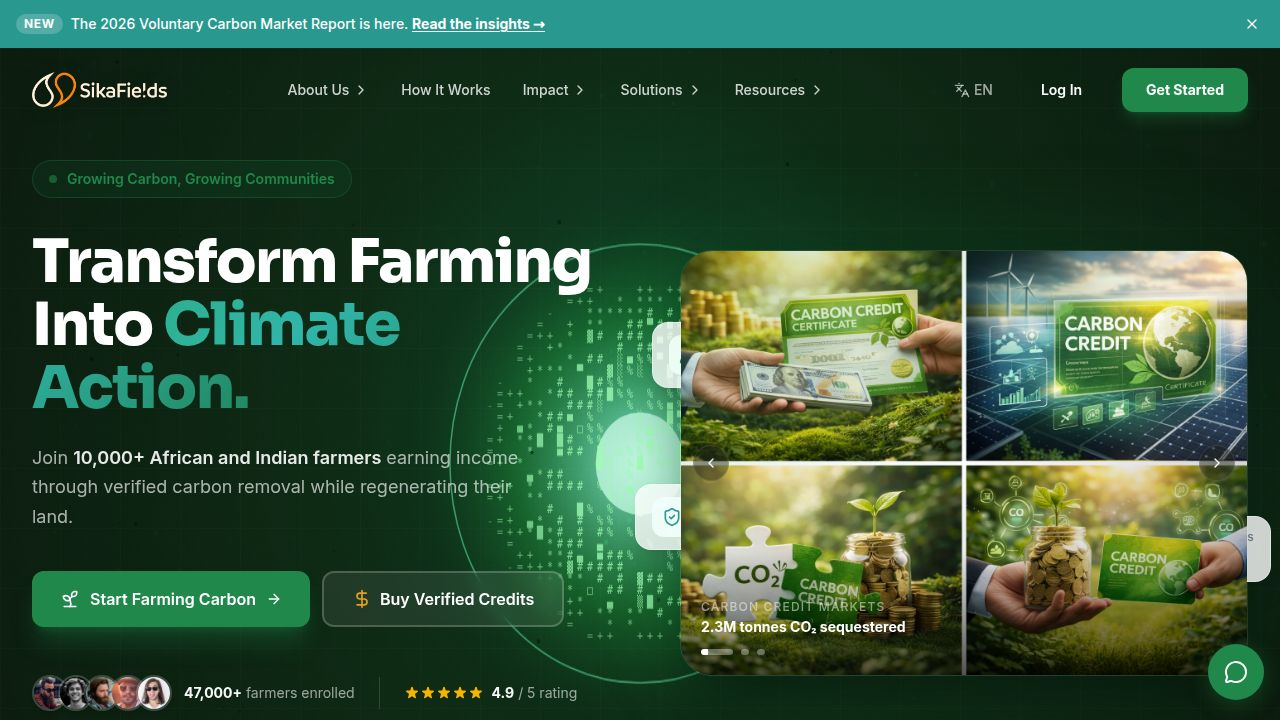
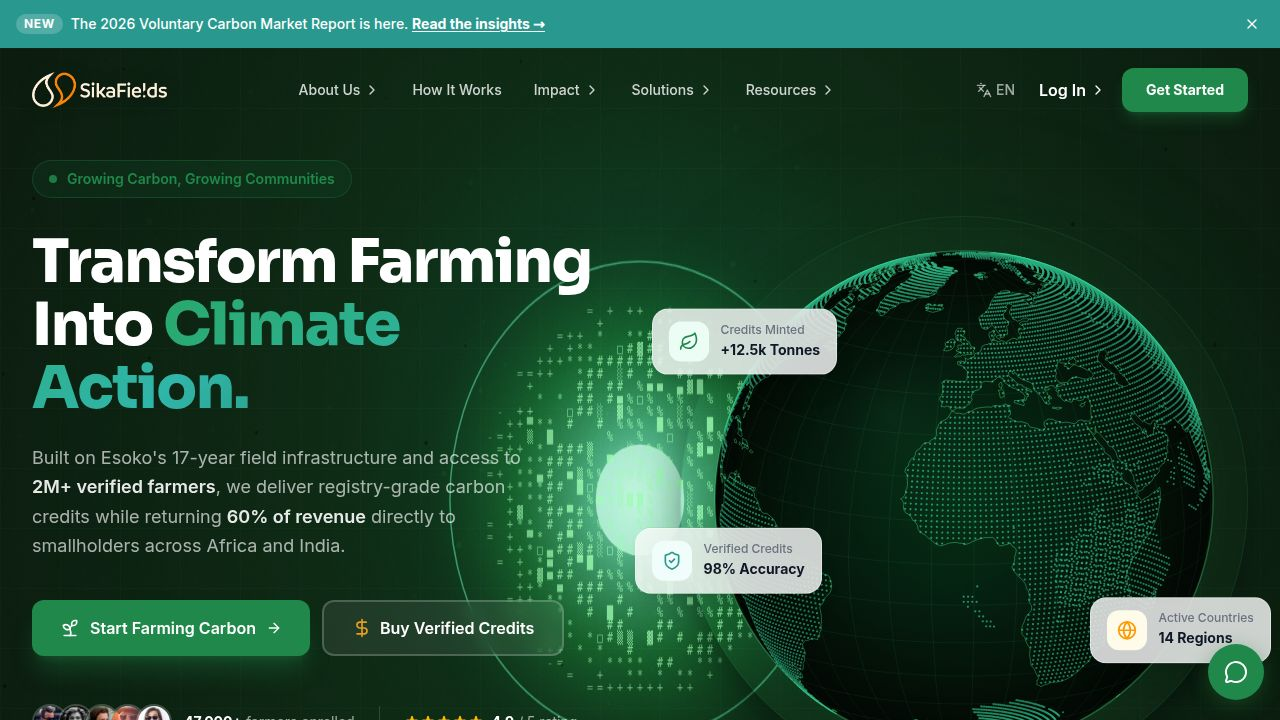
Task #9: Hope photo + Advisory Board landing section
## Hope Jr. Mbakadi Photo
- Copied attached_assets/image_1775166723367.png → public/hope-jr-mbakadi.png
- Updated bgImage: "/hope-jr-mbakadi.png" (was "/hope-mbakadi.jpg")
- bgSize: "cover", bgPos: "center 12%" — frames his face (man in blue blazer) correctly in the 320px-tall LeaderFlipCard

## Advisory Board Section
- Added inline Advisory Board grid in LeadershipSection(), inserted after the leadership flip-card grid (mb-20) and before the "Ground Reports — Operations by Territory" divider
- 5 external advisors (Valentijn Venus excluded — he is already shown as CPRO in the leadership grid):
  1. Derrick Adu Gyamfi — Capital Markets & Finance
  2. Dr. Cheryl Sterling — Doctorate Policy Research / ESG
  3. Festus William Amoyaw — Agribusiness & Rural Partnerships
  4. Nana Ama Boateng-Kagyah — Legal & Compliance
  5. Olubgenga Olanrewaju Awe — Structured Trade Finance / The Alternative Bank
- Photos sourced from existing advisory-board.png sprite sheet using same bgPos/bgSize values as Advisory.tsx
- Card design: white bg, rounded-2xl, color accent bar at top (1.5px), 64px avatar, name + credential + credentialSub, domain tags (colored pills), focus area text, LinkedIn icon (for those with links)
- Section header: "Advisory Board" pill (same style as Ground Reports divider)
- "View Full Advisory Board →" CTA link to /advisory at bottom of section

## No changes to
- /advisory full page (out of scope)
- Ground Reports section
- advisory-board.png sprite sheet

diff --git a/artifacts/sikafields/src/pages/Landing.tsx b/artifacts/sikafields/src/pages/Landing.tsx
@@ -1577,9 +1577,9 @@ function LeadershipSection() {
       role: "Strategic Partnerships & Capital",
       initials: "HM",
       color: "from-amber-600 to-orange-800",
-      bgImage: "/hope-mbakadi.jpg",
+      bgImage: "/hope-jr-mbakadi.png",
       bgSize: "cover",
-      bgPos: "center 15%",
+      bgPos: "center 12%",
       credential: "Capital & Partnerships",
       credentialSub: "Investor Relations · Strategic Growth",
       domains: ["Capital Raising", "Strategic Partnerships", "Investor Relations"],
@@ -1708,6 +1708,111 @@ function LeadershipSection() {
             <LeaderFlipCard key={i} person={person} delay={i * 0.07} />
           ))}
         </div>
+
+        {/* Advisory Board */}
+        {(() => {
+          const advisors = [
+            { name: "Derrick Adu Gyamfi", credential: "Capital Markets & Finance", credentialSub: "Advisory & Investment Strategy", focus: "Capital markets guidance", domains: ["Capital Markets", "Advisory", "Governance"], bgPos: "0% 42%", bgSize: "320% 340%", color: "#166534", linkedin: "https://www.linkedin.com/in/derick-adu-gyamfi-esq-7011901b4/" },
+            { name: "Dr. Cheryl Sterling", credential: "Doctorate — Policy Research", credentialSub: "Sustainability & ESG Frameworks", focus: "Policy research & ESG", domains: ["Policy Research", "Sustainability", "ESG"], bgPos: "50% 42%", bgSize: "320% 340%", color: "#0f766e", linkedin: "https://www.linkedin.com/in/cheryl-sterling-a33890aa/" },
+            { name: "Festus William Amoyaw", credential: "Agribusiness Development", credentialSub: "Agriculture & Rural Partnerships", focus: "Agribusiness & rural dev.", domains: ["Agribusiness", "Rural Dev.", "Partnerships"], bgPos: "100% 42%", bgSize: "320% 340%", color: "#b45309", linkedin: "https://www.linkedin.com/in/festus-william-amoyaw-13152b7/" },
+            { name: "Nana Ama Boateng-Kagyah", credential: "Legal & Compliance", credentialSub: "Corporate Law & Governance", focus: "Legal & compliance", domains: ["Legal", "Compliance", "Governance"], bgPos: "0% 90%", bgSize: "320% 340%", color: "#166534", linkedin: "https://www.linkedin.com/in/nana-ama-boateng-b7b1915/" },
+            { name: "Olubgenga Olanrewaju Awe", credential: "The Alternative Bank", credentialSub: "Structured Trade & Commodities Finance", focus: "Structured trade finance", domains: ["Trade Finance", "Commodities", "Banking"], bgPos: "100% 90%", bgSize: "320% 340%", color: "#166534", linkedin: "" },
+          ];
+          return (
+            <motion.div
+              initial={{ opacity: 0, y: 24 }}
+              whileInView={{ opacity: 1, y: 0 }}
+              viewport={{ once: true }}
+              className="mb-20"
+            >
+              {/* Section header */}
+              <div className="flex items-center gap-4 mb-10">
+                <div className="flex-1 h-px bg-border" />
+                <div className="inline-flex items-center gap-2 px-4 py-2 rounded-full bg-primary/5 border border-primary/20">
+                  <Building2 className="w-4 h-4 text-primary" />
+                  <span className="text-sm font-semibold text-primary">Advisory Board</span>
+                </div>
+                <div className="flex-1 h-px bg-border" />
+              </div>
+              <p className="text-muted-foreground text-center mb-8 max-w-2xl mx-auto">
+                Domain experts advising on capital markets, legal frameworks, agribusiness, policy research, and structured finance.
+              </p>
+
+              {/* Advisor cards */}
+              <div className="grid sm:grid-cols-2 lg:grid-cols-3 gap-5">
+                {advisors.map((a, i) => (
+                  <motion.div
+                    key={i}
+                    initial={{ opacity: 0, y: 16 }}
+                    whileInView={{ opacity: 1, y: 0 }}
+                    viewport={{ once: true }}
+                    transition={{ delay: i * 0.06 }}
+                    className="bg-white rounded-2xl border border-border overflow-hidden hover:shadow-md transition-shadow group"
+                  >
+                    <div className="h-1.5 w-full" style={{ backgroundColor: a.color }} />
+                    <div className="p-5 flex items-start gap-4">
+                      <div
+                        className="w-16 h-16 rounded-xl shrink-0"
+                        style={{
+                          backgroundImage: "url('/advisory-board.png')",
+                          backgroundSize: a.bgSize,
+                          backgroundPosition: a.bgPos,
+                          backgroundRepeat: "no-repeat",
+                          outline: `3px solid ${a.color}25`,
+                          outlineOffset: "2px",
+                        }}
+                      />
+                      <div className="flex-1 min-w-0 pt-0.5">
+                        <p className="font-bold text-foreground text-sm leading-snug">{a.name}</p>
+                        <p className="text-xs font-semibold mt-0.5" style={{ color: a.color }}>{a.credential}</p>
+                        <p className="text-xs text-muted-foreground leading-snug mt-0.5">{a.credentialSub}</p>
+                      </div>
+                    </div>
+                    <div className="px-5 pb-4">
+                      <div className="flex flex-wrap gap-1 mb-3">
+                        {a.domains.map((d, di) => (
+                          <span
+                            key={di}
+                            className="text-[10px] font-semibold px-2 py-0.5 rounded-full"
+                            style={{ backgroundColor: `${a.color}15`, color: a.color }}
+                          >
+                            {d}
+                          </span>
+                        ))}
+                      </div>
+                      <div className="flex items-center justify-between">
+                        <span className="text-xs text-muted-foreground">{a.focus}</span>
+                        {a.linkedin && (
+                          <a
+                            href={a.linkedin}
+                            target="_blank"
+                            rel="noopener noreferrer"
+                            className="w-6 h-6 rounded-full flex items-center justify-center hover:opacity-80 transition-opacity"
+                            style={{ backgroundColor: a.color }}
+                            aria-label={`${a.name} on LinkedIn`}
+                          >
+                            <svg className="w-3 h-3 fill-white" viewBox="0 0 24 24"><path d="M19 0h-14c-2.761 0-5 2.239-5 5v14c0 2.761 2.239 5 5 5h14c2.762 0 5-2.239 5-5v-14c0-2.761-2.238-5-5-5zm-11 19h-3v-11h3v11zm-1.5-12.268c-.966 0-1.75-.79-1.75-1.764s.784-1.764 1.75-1.764 1.75.79 1.75 1.764-.783 1.764-1.75 1.764zm13.5 12.268h-3v-5.604c0-3.368-4-3.113-4 0v5.604h-3v-11h3v1.765c1.396-2.586 7-2.777 7 2.476v6.759z" /></svg>
+                          </a>
+                        )}
+                      </div>
+                    </div>
+                  </motion.div>
+                ))}
+              </div>
+
+              {/* View full advisory board CTA */}
+              <div className="mt-8 text-center">
+                <a
+                  href="/advisory"
+                  className="inline-flex items-center gap-2 text-sm font-semibold text-primary hover:text-primary/80 transition-colors border border-primary/30 px-5 py-2.5 rounded-full hover:bg-primary/5"
+                >
+                  View Full Advisory Board
+                  <ChevronRight className="w-4 h-4" />
+                </a>
+              </div>
+            </motion.div>
+          );
+        })()}
 
         {/* Ground Reports — Advisory Board by Territory */}
         <motion.div